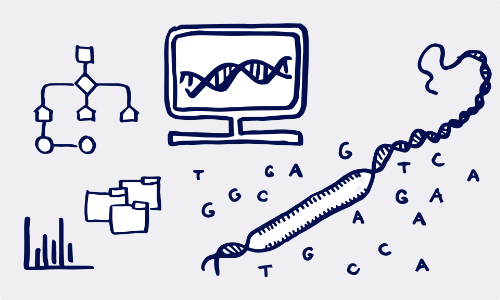
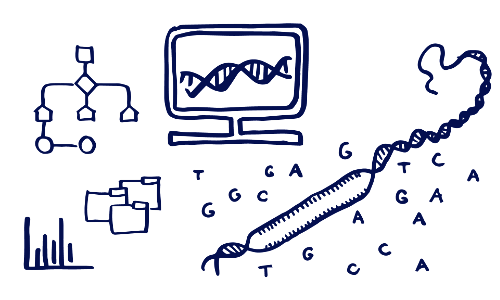
upd pics

diff --git a/_portfolio/portfolio-1.md b/_portfolio/portfolio-1.md
@@ -1,6 +1,6 @@
 ---
 title: "Pediatric Nutritional Medicine and Intestinal Microbiology"
-excerpt: "Research Internship in Indonesia (Bina Nusantara University; Feb 2023 – July 2023)<br/><img src='/images/Clinical_trial_design.jpg' width="500">"
+excerpt: "Research Internship in Indonesia (Bina Nusantara University; Feb 2023 – July 2023)<br/><img src='/images/500x300/Clinical_trial_design500x300.png'>"
 collection: portfolio
 ---
 
